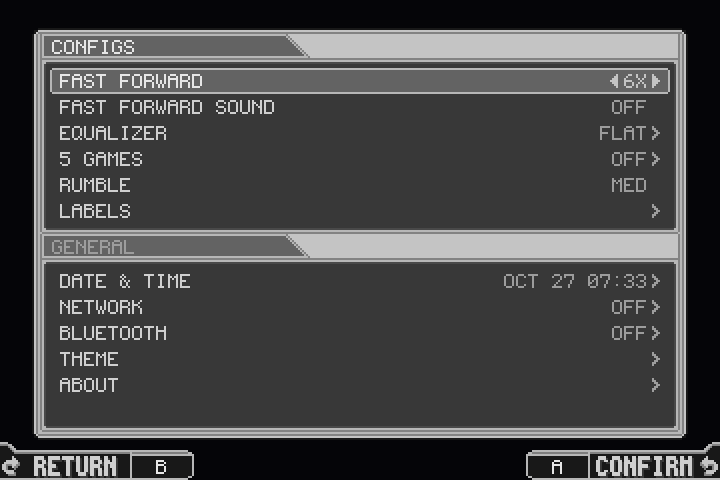
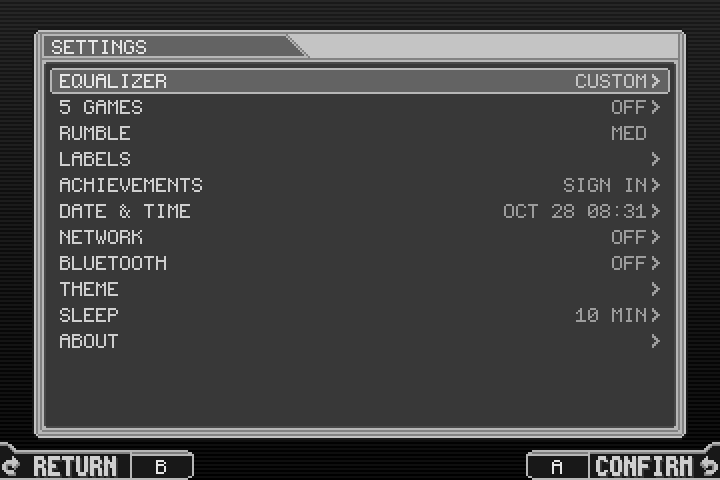
No corner blocks on the shelf, no boot opener
The shelf's corner actions are drawn as clear faces now, not as empty pills, and
the boot opener no longer plays.

Claude-Session: https://claude.ai/code/session_013prUP5ZxuN1XqdtWeLaupt

diff --git a/crates/cartridge/src/frontend/sync_bar.rs b/crates/cartridge/src/frontend/sync_bar.rs
@@ -37,7 +37,21 @@ pub(crate) fn sync_bar(app: &mut App, compositor: &mut Compositor, texes: &mut B
                 pal,
             );
             let held = &mut texes.actions[actions.index()];
+            let bare = actions == Actions::Shelf;
             let mut up = |i: usize, face: &cartridge_ui::UndoFace| {
+                // the shelf's corners are bare: clear faces of the size the actions would be,
+                // so the bar's layout and the slides between bars stay as they were
+                let clear;
+                let face = if bare {
+                    clear = cartridge_ui::UndoFace {
+                        rgba: vec![0; face.rgba.len()],
+                        w: face.w,
+                        h: face.h,
+                    };
+                    &clear
+                } else {
+                    face
+                };
                 let tex = upload_nearest(compositor, &mut held[i], face);
                 (tex, face.w, face.h)
             };

diff --git a/crates/cartridge/src/device_app.rs b/crates/cartridge/src/device_app.rs
@@ -150,7 +150,6 @@ pub fn run() {
     if let Some(logo) = logo.and_then(|reading| reading.join().ok()).flatten() {
         frontend.show_boot_logo(&mut compositor, &logo);
     }
-    frontend.start_opening(&cartridge::opening::Facts::read());
     let mut input = DeviceInput::open(&root);
     let card = root.clone();
     let _ = std::thread::Builder::new()

diff --git a/crates/cartridge/src/host_app.rs b/crates/cartridge/src/host_app.rs
@@ -51,8 +51,6 @@ impl ApplicationHandler for HostApp {
         if let Some(logo) = boot_logo(self.frontend.app().root()) {
             self.frontend.show_boot_logo(&mut compositor, &logo);
         }
-        self.frontend
-            .start_opening(&cartridge::opening::Facts::read());
         self.gfx = Some((surface, compositor));
     }
 

diff --git a/README.md b/README.md
@@ -128,9 +128,7 @@ is the most useful thing you can send.
   PC Engine HuCards, pale grey or an American
   black TurboChip, and PlayStation discs, a game on several
   discs standing as a stack of them. The one you are on floats and sways; A pulls it down out of
-  the screen into the handheld, and the game comes on like a tube TV. At power-on, an opening in the
-  style of Mega Man X5's boot terminal tells you the handheld's memory, chip and battery, then
-  fades into the shelf.
+  the screen into the handheld, and the game comes on like a tube TV.
 - Cores: Gambatte (default) and mGBA for the Game Boys, DSperate for the DS, SwanStation as a second PlayStation core; mGBA and gpSP for the GBA and Snes9x and Supafaust for the SNES, chosen per cart;
   mGBA for the Game Boys; FCEUmm for the NES; Genesis Plus GX for the Mega Drive, A, B and C on
   Y, B and A, and for the Game Gear and the Master System, 1 and 2 on B and A; Beetle PCE Fast for the PC Engine; PCSX ReARMed for the PlayStation, with a BIOS of its own built in. GBA

diff --git a/CHANGELOG.md b/CHANGELOG.md
@@ -9,6 +9,8 @@
 - Settings is one list, SETTINGS, with no CONFIGS and GENERAL panels: Equalizer, 5 Games, Rumble,
   Labels, Achievements, Date & Time, Network, Bluetooth, Theme, Sleep, About.
 - About names @NUKEBOMB3000 as the author of Cartridge.
+- The boot opener, the terminal that told the handheld's memory, chip and battery over the first
+  frames of the shelf, no longer plays: the boot logo goes straight to the shelf.
 - The game menu on a short MENU press has three tabs that L1 and R1 turn between: GUIDE (as
   before, now opening for a game with no guide too, where it says where to put one),
   ACHIEVEMENTS (the game's list, unlocked first, with points) and SETTINGS (brightness, blue
